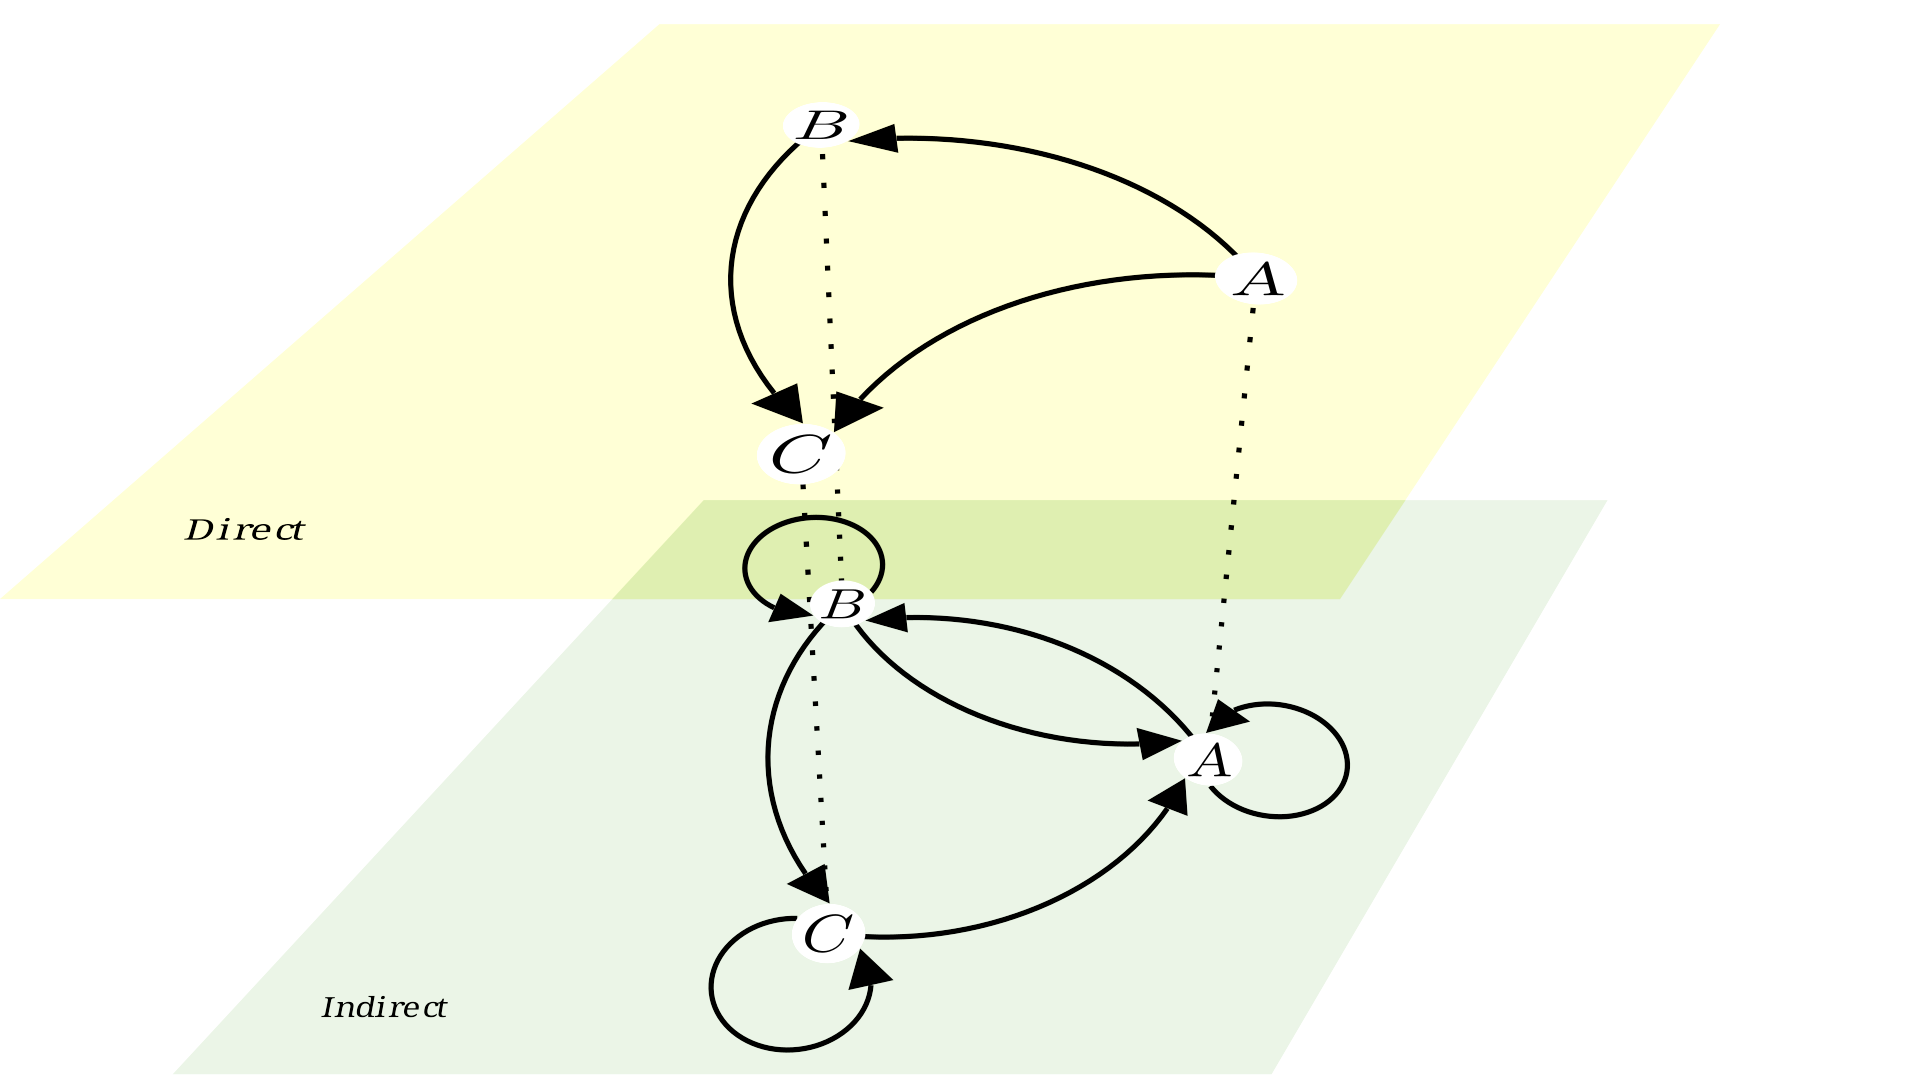
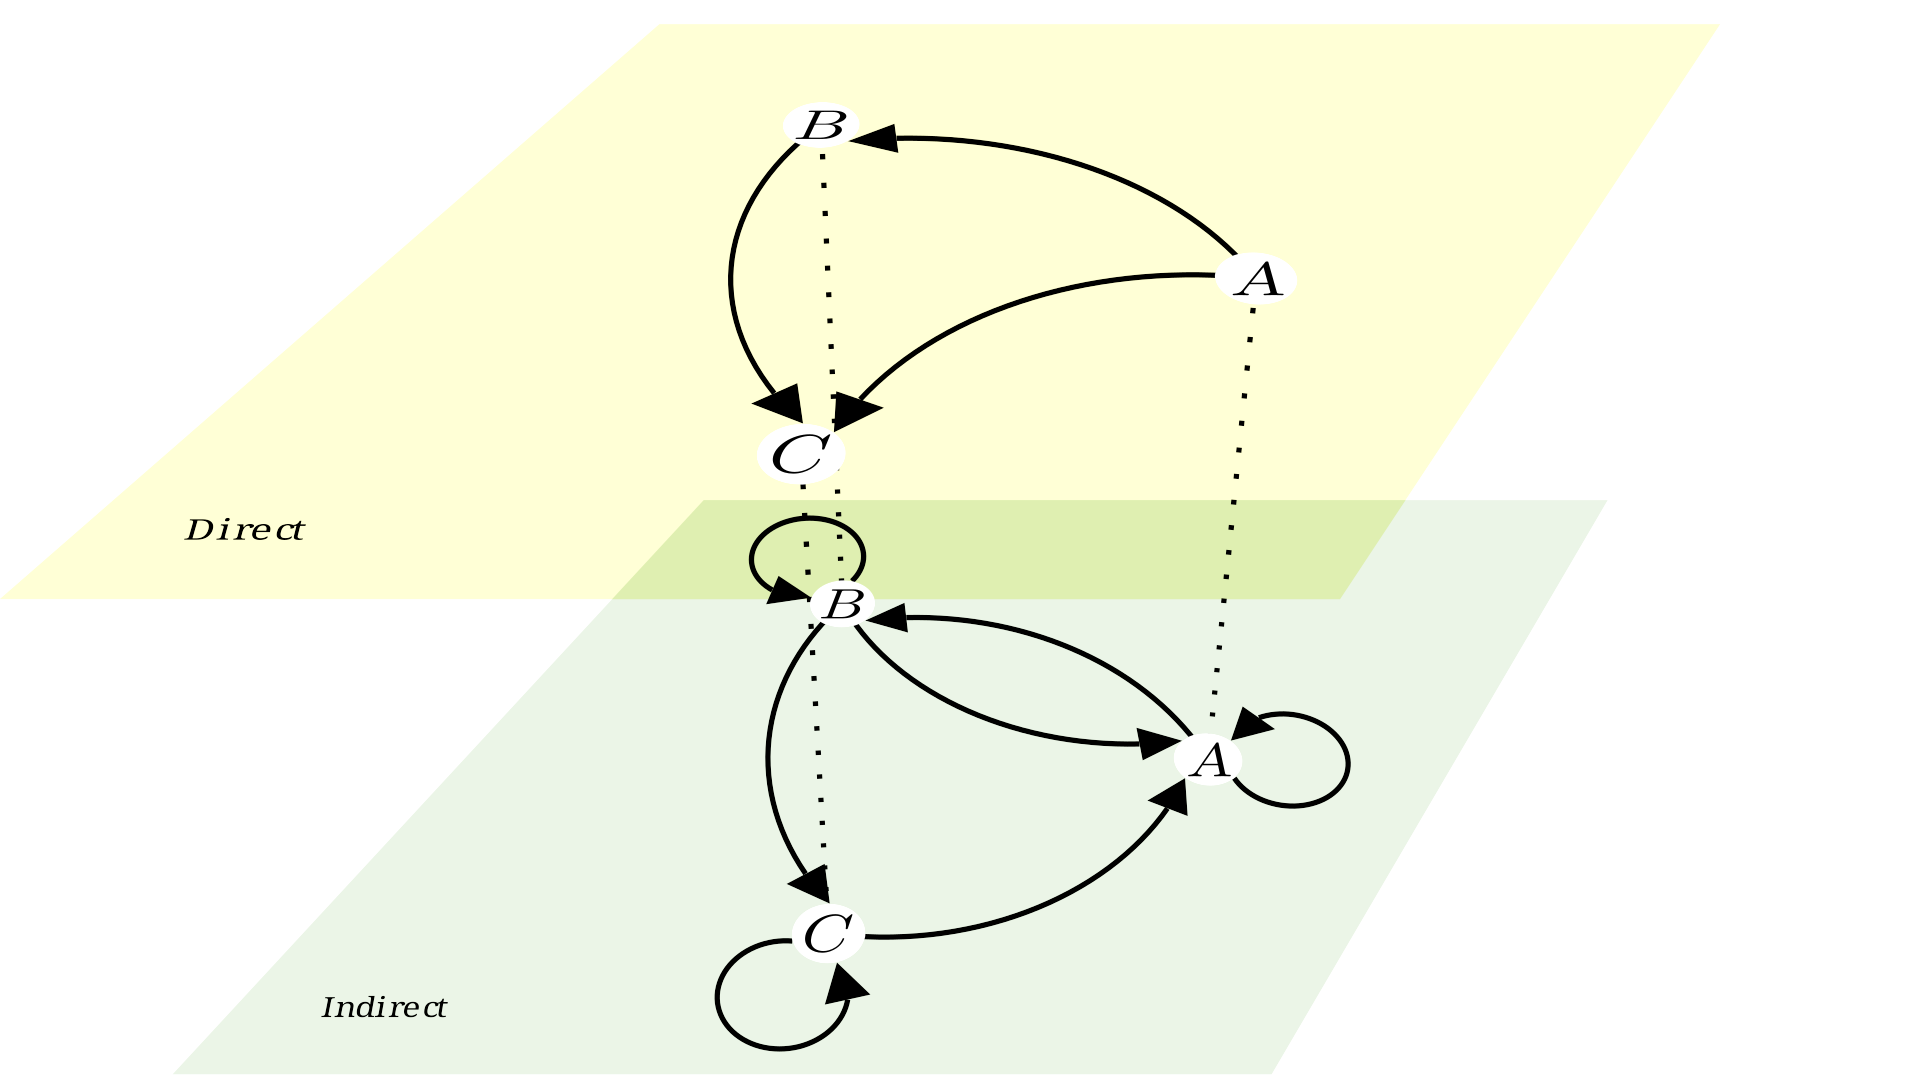
Add newer report ideas

diff --git a/reports/diagrams/multilayer_network.py b/reports/diagrams/multilayer_network.py
@@ -42,6 +42,23 @@ class BiLayer(ThreeDScene):
 
         vertices = ['A', 'B', 'C']
         
+        graph_config = dict(
+            labels = True,
+            layout = 'circular',
+            vertex_config = dict(
+                fill_opacity = 1.0,
+                stroke_color = BLACK,
+            ),
+            edge_config = dict(
+                path_arc = 1.2,
+                loop_config = {
+                    "angle_between_points": PI, 
+                    "path_arc": 3 * PI / 2,
+                },
+                color = BLACK,
+            )
+        )
+
         G0 = DiGraph(
             vertices = vertices,
             edges = [
@@ -49,15 +66,7 @@ class BiLayer(ThreeDScene):
                 ('B', 'C'),
                 ('A', 'C'),
             ],
-            labels = True,
-            layout = "circular",
-            vertex_config = {
-                'fill_opacity': 1.0,
-            },
-            edge_config = {
-                "path_arc" : 1.2,
-                "color": BLACK,
-            },
+            **graph_config
         )
 
         G0.set_z(levels[0])
@@ -79,16 +88,7 @@ class BiLayer(ThreeDScene):
                 ('B', 'B'),
                 ('C', 'C'),
             ],
-            labels = True,
-            layout = "circular",
-            vertex_config={
-                'fill_opacity': 1.0,
-            },
-            edge_config = {
-                "path_arc" : 1.2,
-                "loop_config": {"angle_between_points": PI, "path_arc": 3 * PI / 2},
-                "color": BLACK,
-            },
+            **graph_config
         )
 
         G1.set_z(levels[1])

diff --git a/reports/_new_interp_models.md b/reports/_new_interp_models.md
@@ -1,0 +1,49 @@
+
+
+Each leg of a patient's journey through the hospital system can be characterised by 
+
+1. the length of stay $\ell_i$ in a given hospital $
+2. the readmission time between hospital admissions. $\tau$
+
+In a naive static model, we model $\ell_i \sim \text{Exp}(\lambda_i)$ for some given hospital $i$, and $\tau = 0$.
+
+We can improve on this static network model by having:
+
+- $\ell_i \sim \text{Exp}(\lambda_i)$ as above
+<!-- - $\tau_{ij} \sim \begin{cases}\text{Delta}(0) & \text{with probability } p_{ij} \\ \text{Exp}(\lambda^{(H)}_{ij}) & \text{with probability } (1-p_{ij})\end{cases}$
+
+$$\begin{aligned}
+\left(\lambda^{(H)}_{ij}\right)^{-1} 
+&= \int_\Omega^\infty f_{ij}(\tau) \tau d\tau\\ 
+&\approx \frac{1}{|\{\tau^{(n)}_{ij} : \tau^{(n)}_{ij} > \Omega\}|}\sum_{\tau^{(n)}_{ij} > \Omega} \tau^{(n)}_{ij}
+\end{aligned}
+$$ -->
+
+
+- $F(\tau_{ij}) = 1 - (1-p_{ij}) e^{-\lambda_{ij}^{(H)} t}$
+
+where $\lambda_{ij}^{(H)}$ is the empirical rate of indirect movement from $i$ to $j$ and $p_{ij}$ is the probability that a movement from $i$ to $j$ is direct.
+$\lambda^{(H)}_{ij}$ can be computed as the empirical mean of the readmission times above some threshold $\Omega$:
+
+$$
+\left(\lambda^{(H)}_{ij}\right)^{-1} 
+= \frac{1}{|\{\tau^{(n)}_{ij} : \tau^{(n)}_{ij} > \Omega\}|}\sum_{\tau^{(n)}_{ij} > \Omega} \tau^{(n)}_{ij}
+$$
+
+where $\tau^{(n)}_{ij}$ is an observed readmission time where an individual travels from $i$ to $j$. 
+
+We can also compute
+$$p_{ij} = \frac{|\{\tau^{(n)}_{ij} : \tau^{(n)}_{ij} < \Omega\}|}{|\{\tau^{(n)}_{ij}\}|}$$
+
+This makes the modelled readmission distribution more reflective of the actual readmission distribution (i.e. non-zero). This also introduces paths into the movement of patients that take a non-zero amount of time to traverse, which will raise the (expected) hitting time.
+
+If we use a series of static networks (_snapshots_ of the temporal network), we can allow variation in $\ell_{i}$ and $\tau_{ij}$ over time. This variation, particularly when ??, causes a non-trivial distribution for $\tau_{ij}$.
+
+
+
+We can allow variation in $\ell, \tau$ over time by introducing snapshots. 
+
+
+We can then capture the correlations between stuff with a full temporal network.
+
+
